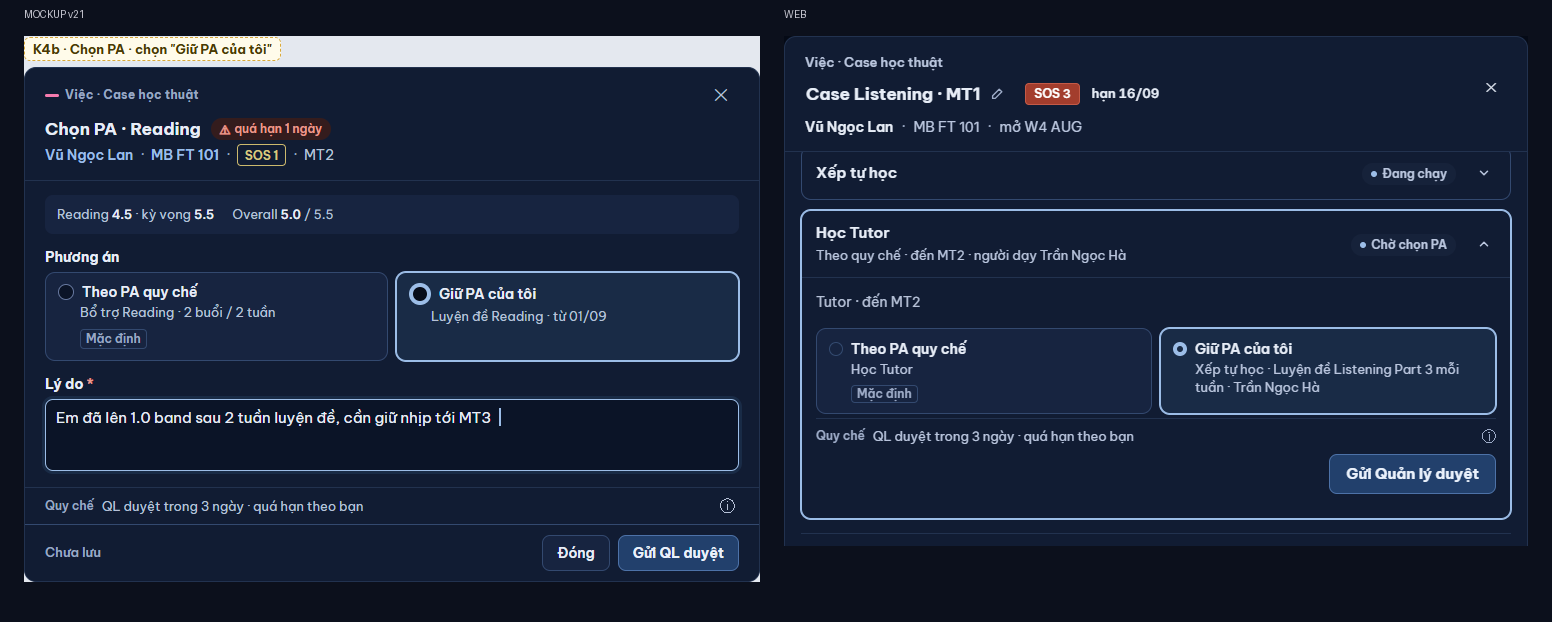
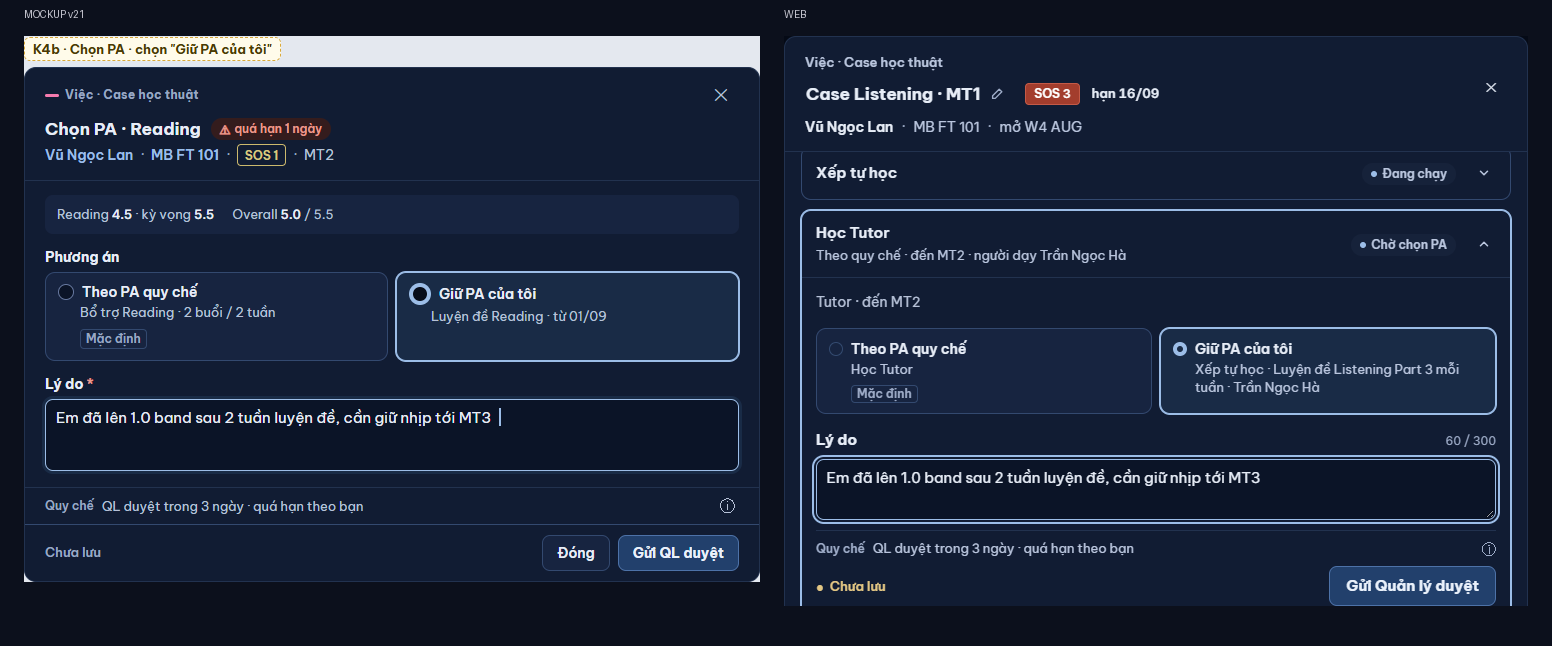
GD-3: ô Lý do khi Giữ PA của tôi (mockup K4b) — máy chủ chặn > 300 ký tự (N35), web gửi lý do, panel Case hiện lại lý do

diff --git a/web/src/modules/yThuc/CaseSosControls.tsx b/web/src/modules/yThuc/CaseSosControls.tsx
@@ -215,6 +215,8 @@ export function XacNhanPaPanel({ pa, data, onXong, tiep, onGhiKetQua, ...chung }
   const [cheDo, setCheDo] = useState<'xac-nhan' | 'doi' | 'ktd'>('xac-nhan');
   /* GD-3 (mockup v21 K4a / K4b): Chọn PA — hai ô chọn, mặc định Theo PA quy chế; dòng quy chế + nút chính đổi theo ô đang chọn. */
   const [chon, setChon] = useState<'quy-che' | 'giu'>('quy-che');
+  /* K4b: lý do "Giữ PA của tôi" — không bắt buộc (Q3), ≤ 300 ký tự (N35, máy chủ cũng chặn); nháp của việc như Nội dung PA. */
+  const [lyDoGiu, setLyDoGiu] = useNhap(`giu-pa-ly-do:${pa.id}`, '');
   const doi = useDoiPa(pa.kind);
   const [busy, setBusy] = useState(false);
   const [bam, setBam] = useState<'luu' | 'tiep' | null>(null);
@@ -229,9 +231,11 @@ export function XacNhanPaPanel({ pa, data, onXong, tiep, onGhiKetQua, ...chung }
   const paGv = pa.chonPa?.length ? pa.chonPa : null;
   const tenGv = paGv ? paGv.map((g) => dich(INTERVENTION_KIND_LABEL[g.kind as keyof typeof INTERVENTION_KIND_LABEL] ?? g.kind)).join(', ') : '';
   const giu = async () => {
+    if (lyDoGiu.trim().length > 300) return;   // báo tại ô, chữ giữ
     setBusy(true); setLoiLuu(null);
     try {
-      const ct = await api.post<any>(`/interventions/${pa.id}/giu-pa-gv`, {});
+      const ct = await api.post<any>(`/interventions/${pa.id}/giu-pa-gv`, { lyDo: lyDoGiu.trim() || undefined });
+      xoaNhap();
       invalidateCases();
       const yc = (ct?.interventions ?? []).find((x: any) => x.id === pa.id)?.doiPa?.yeuCauId ?? null;
       onXong({
@@ -288,7 +292,7 @@ export function XacNhanPaPanel({ pa, data, onXong, tiep, onGhiKetQua, ...chung }
       {busy ? t('Đang gửi…') : t('Gửi Quản lý duyệt')}
     </button>
   ) : <NutVaTiep chu={t('Xác nhận PA')} chuTiep={t('Xác nhận · việc tiếp ›')} busy={busy} bam={bam} tiep={tiep} luu={(x) => void luu(x)} />;
-  const daSua = cheDo === 'doi' ? doi.daSua : !giuPa && !!v.description.trim();
+  const daSua = cheDo === 'doi' ? doi.daSua : giuPa ? !!lyDoGiu.trim() : !!v.description.trim();
   const theoLuot = data.nguyenNhanTheoLuot ?? [];
   const tuChoi = pa.doiPa?.trangThai === 'tu_choi' ? pa.doiPa : null;
   /* Nguyên nhân chính trước (cùng thứ tự `DongNguyenNhan`); "Xem Case" của panel việc nằm dưới Mô tả (mockup A1), không ở đầu panel. */
@@ -357,6 +361,12 @@ export function XacNhanPaPanel({ pa, data, onXong, tiep, onGhiKetQua, ...chung }
                     </button>
                   ))}
                 </div>
+              )}
+              {giuPa && (
+                <Truong nhan={t('Lý do')} dem={{ co: lyDoGiu.trim().length, toiDa: 300 }}
+                  loi={lyDoGiu.trim().length > 300 ? t('Tối đa {toiDa} ký tự (đang có {n})', { toiDa: 300, n: lyDoGiu.trim().length }) : undefined}>
+                  <textarea className="field w-full" rows={2} value={lyDoGiu} readOnly={busy} onChange={(e) => setLyDoGiu(e.target.value)} />
+                </Truong>
               )}
               {!giuPa && <>
               {/* Mockup A1: "Phương án · Học Tutor" + thẻ "theo quy chế" · mốc — KHÔNG hộp lồng vạch trái. */}

diff --git a/web/src/modules/cases/CasePanel.tsx b/web/src/modules/cases/CasePanel.tsx
@@ -1068,7 +1068,7 @@ function DaiVuaDoi({ x, onHoanTac, onSua }: { x: VuaDoiPa; onHoanTac?: () => voi
  */
 function DongDoiPa({ iv, data, ngan, onDoi }: { iv: any; data: CaseDetail; ngan: (d: string | null | undefined) => string; onDoi?: () => void }) {
   const d = iv.doiPa as { trangThai: 'cho' | 'tu_choi'; paMoiId: number; loaiMoi: string; guiLuc: string; hanDuyet: string | null; lyDoTuChoi: string | null; yeuCauId: number; laNguoiGui: boolean;
-    /** SOS-TAM-PA: GV giữ PA của mình khác PA quy chế — quá hạn QL chưa trả lời thì chốt theo GV. */ giuPaGv?: boolean } | null;
+    /** SOS-TAM-PA: GV giữ PA của mình khác PA quy chế — quá hạn QL chưa trả lời thì chốt theo GV. */ giuPaGv?: boolean; lyDo?: string } | null;
   const [busy, setBusy] = useState(false);
   const [loi, setLoi] = useState<string | null>(null);
   const [lai, setLai] = useState(false);
@@ -1088,6 +1088,8 @@ function DongDoiPa({ iv, data, ngan, onDoi }: { iv: any; data: CaseDetail; ngan:
           <span className="text-slate-400">· {d.giuPaGv ? t('PA của GV vẫn chạy') : iv.status === 'started' ? t('PA gốc vẫn chạy') : t('chưa chạy')} · {t('gửi {ngay}', { ngay: ngan(d.guiLuc) })}{d.hanDuyet ? ` · ${d.giuPaGv ? t('quá {ngay} tự chốt theo GV', { ngay: ngan(d.hanDuyet) }) : t('QL hạn {ngay}', { ngay: ngan(d.hanDuyet) })}` : ''}</span>
           {d.laNguoiGui && <button type="button" className="link min-h-[44px] appearance-none border-0 bg-transparent p-0 font-semibold sm:min-h-0" disabled={busy} onClick={() => void rut()}>{busy ? t('Đang lưu…') : t('Rút')}</button>}
           {loi && <span role="alert" className="text-bad">⚠ {loi}</span>}
+          {/* GD-3: lý do "Giữ PA của tôi" (mockup v21 K4b) hiện lại tại PA. */}
+          {d.giuPaGv && d.lyDo && <span className="basis-full text-slate-400">{t('Lý do')}: “{d.lyDo}”</span>}
         </p>
         {the && <TheYeuCau gon yc={the} onXong={() => onDoi?.()} />}
       </div>

diff --git a/server/src/cases/sosAuto.ts b/server/src/cases/sosAuto.ts
@@ -206,7 +206,7 @@ function traPaGv(conn: any, ds: readonly { id: number; truoc: Record<string, unk
 
 /**
  * "GIỮ PA CỦA TÔI" (việc Chọn PA): thẻ `giu_pa_gv` cho QL (đối tượng = PA quy chế chờ, hạn 3 ngày — quá hạn máy chốt theo GV), PA quy chế chờ
- * (`superseded_by` → PA GV, Case "Chờ duyệt đổi PA", việc Chọn PA rời GV), PA GV vẫn chạy. Lý do không bắt buộc (Q3). Quyền như Xác nhận PA.
+ * (`superseded_by` → PA GV, Case "Chờ duyệt đổi PA", việc Chọn PA rời GV), PA GV vẫn chạy. Lý do không bắt buộc (Q3), ≤ 300 ký tự (N35). Quyền như Xác nhận PA.
  */
 export function giuPaGv(p: Principal, qId: number, input: { lyDo?: unknown } = {}) {
   const conn = db();
@@ -222,7 +222,9 @@ export function giuPaGv(p: Principal, qId: number, input: { lyDo?: unknown } = {
     return { q, gs };
   };
   kiem();
-  const lyDo = typeof input.lyDo === 'string' ? input.lyDo.trim().slice(0, 1000) || null : null;
+  /* GD-3 (mockup v21 K4b, chủ SP 14/11): ô Lý do — vẫn không bắt buộc (Q3); N35: quá 300 ký tự báo, không cắt lặng. */
+  const lyDo = typeof input.lyDo === 'string' ? input.lyDo.trim() || null : null;
+  if (lyDo && lyDo.length > 300) throw badRequest('Lý do tối đa 300 ký tự.');
   return tx(() => {
     const { q, gs } = kiem();
     const id = taoYeuCau(conn, { loai: 'giu_pa_gv', doiTuongLoai: 'intervention', doiTuongId: q.id, hocVienId: q.sid, nguoiXin: p.userId, lyDo,

diff --git a/server/src/tests/prSosTamPa.tests.ts b/server/src/tests/prSosTamPa.tests.ts
@@ -163,6 +163,8 @@ export async function runPrSosTamPaTests(t: YThucTestKit) {
 
   check('STP-5 · "Giữ PA của tôi" → thẻ QL hạn ngày gửi + 3, PA quy chế chờ duyệt (hết việc), PA GV chạy; Rút → về Chọn PA', () => thu(() => {
     const { c, g, q } = chotVoiPaGv(khacLoai);
+    /* GD-3 (N35): lý do quá 300 ký tự → 400, không cắt lặng, không tạo thẻ. */
+    assert(loiCua(() => sosAuto.giuPaGv(QL, q.id, { lyDo: 'x'.repeat(301) }))?.status === 400 && !theCho(q.id), 'lý do > 300 ký tự → 400, không thẻ');
     const ct = sosAuto.giuPaGv(QL, q.id, {});
     const y = theCho(q.id);
     assert(y?.trang_thai === 'cho' && y.han_duyet === t.addDays(TODAY, 3), `thẻ chờ, hạn +3: ${y?.trang_thai} · ${y?.han_duyet}`);
@@ -181,6 +183,7 @@ export async function runPrSosTamPaTests(t: YThucTestKit) {
     const GV = P.lrTeacher;
     sosAuto.giuPaGv(QL, q.id, { lyDo: 'Em hợp điều chỉnh dạy hơn Tutor.' });
     let y = theCho(q.id);
+    assert(y.ly_do === 'Em hợp điều chỉnh dạy hơn Tutor.', `GD-3: thẻ lưu lý do: ${y.ly_do}`);
     const kq = yeuCau.duyetYeuCau(P.admin, y.id, {});
     xoaNho();
     let qq = one('SELECT * FROM case_interventions WHERE id = ?', q.id);
